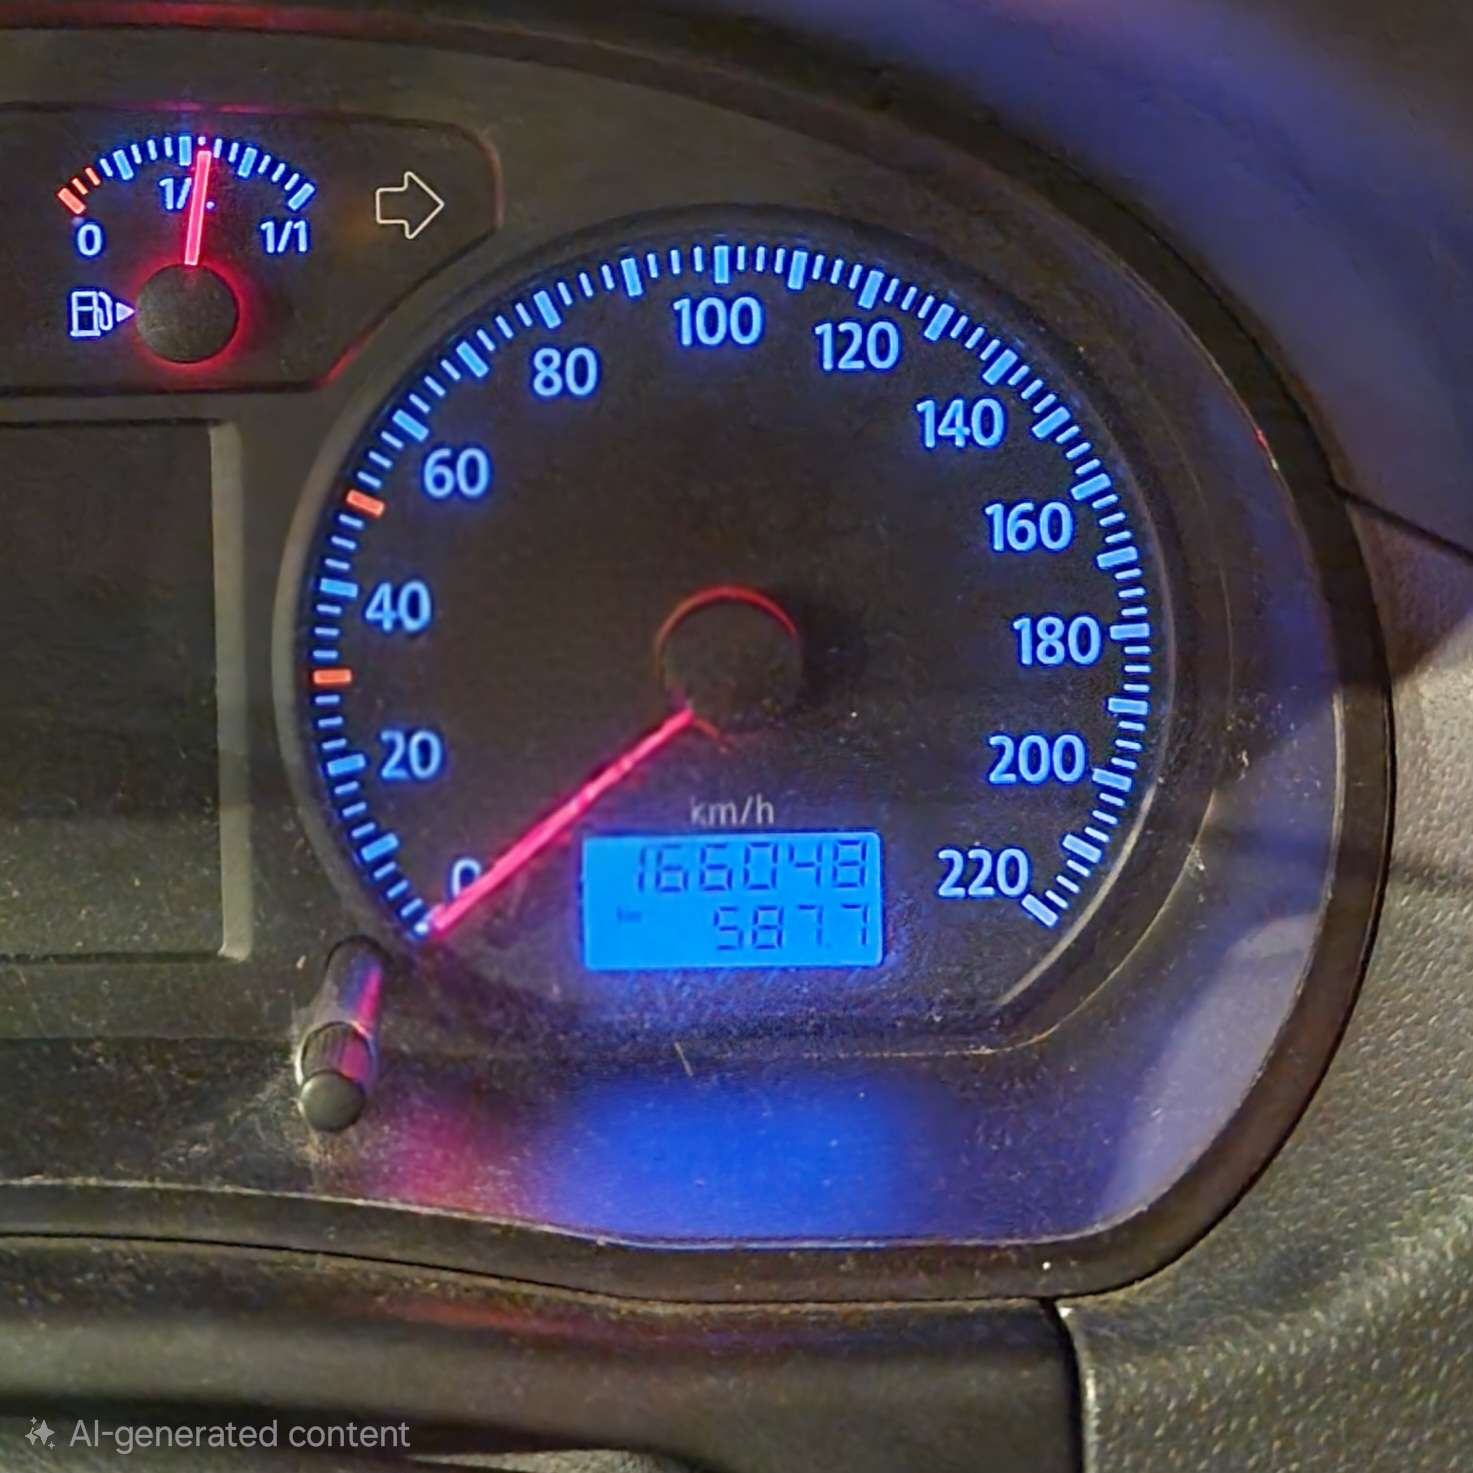
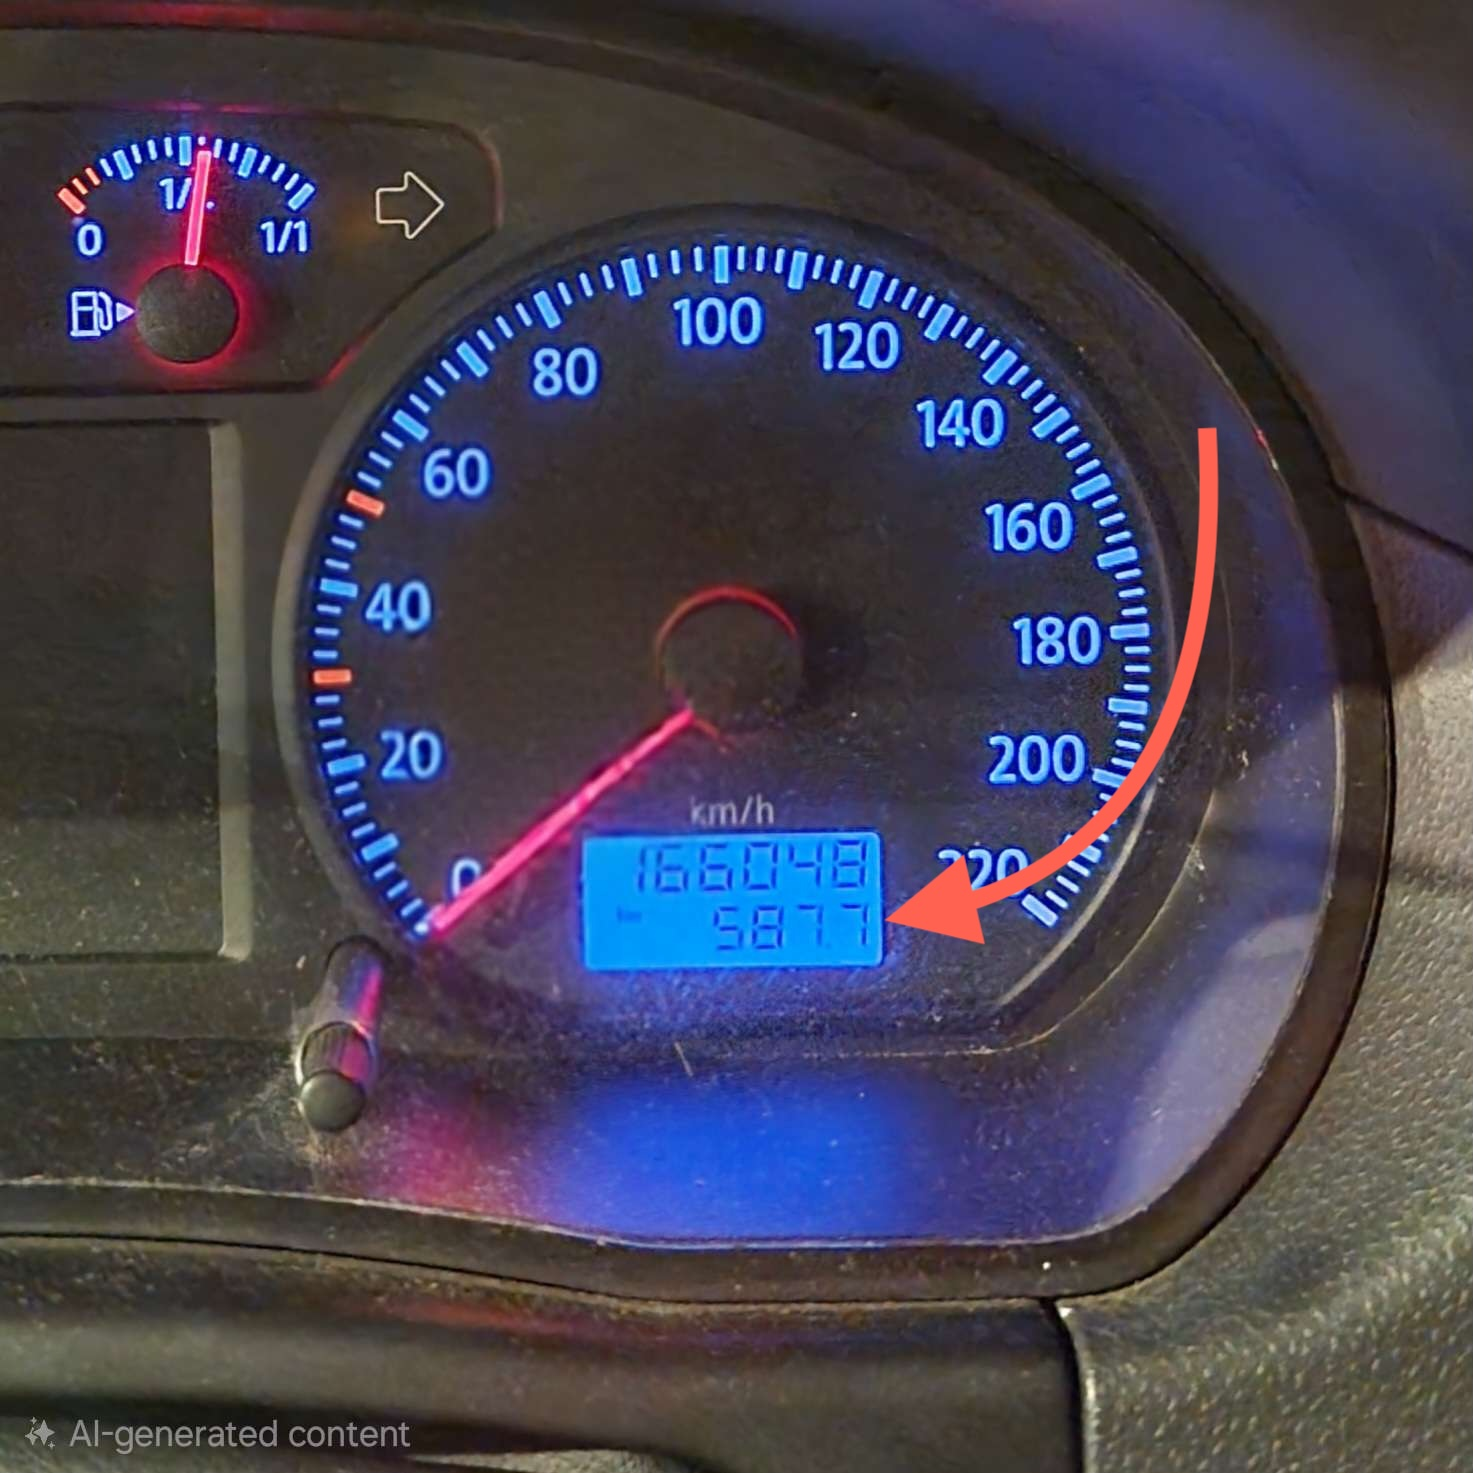
small odometer and big odometer

Changed region(s): [[0.5933, 0.2811, 0.8432, 0.6558]]

diff --git a/lib/views/hints/odometer.dart b/lib/views/hints/odometer.dart
@@ -1,5 +1,4 @@
 import 'package:flutter/material.dart';
-import 'package:flutter_markdown/flutter_markdown.dart';
 
 class Odometer extends StatelessWidget {
   const Odometer({super.key});
@@ -22,7 +21,9 @@ class Odometer extends StatelessWidget {
         Text("Big Odometer", style: Theme.of(context).textTheme.titleLarge),
         Text("Big odometer refers to the total travelled distance of your car. It starts from when the car was bought. If the car is old, this number is usually really big, if the car used. It's usually written right below your car's speedometer",
             style: Theme.of(context).textTheme.bodyMedium
-        )
+        ),
+
+        Image.asset('assets/images/odometer_big.jpg'),
 
       ],
     ),
